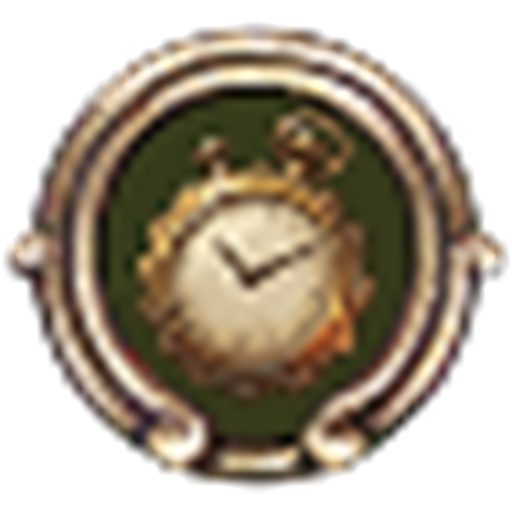
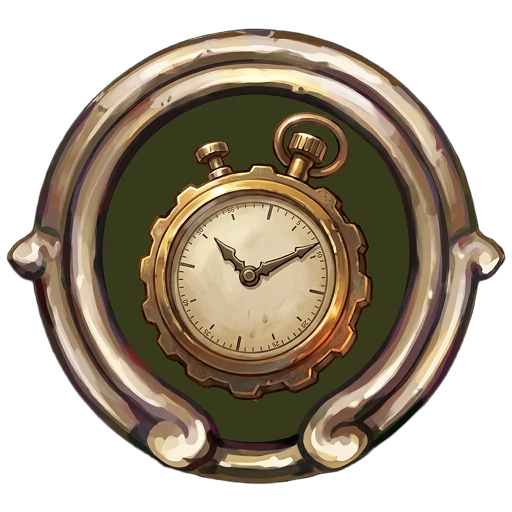
fix: atualizar icones PWA em alta definicao e gerar versoes maskable v8

Changed region(s): [[0.0, 0.0312, 1.0, 0.9688]]

diff --git a/sw.js b/sw.js
@@ -1,4 +1,4 @@
-const CACHE_NAME = 'batida-ponto-v7';
+const CACHE_NAME = 'batida-ponto-v8';
 const ASSETS_TO_CACHE = [
   './',
   './index.html',
